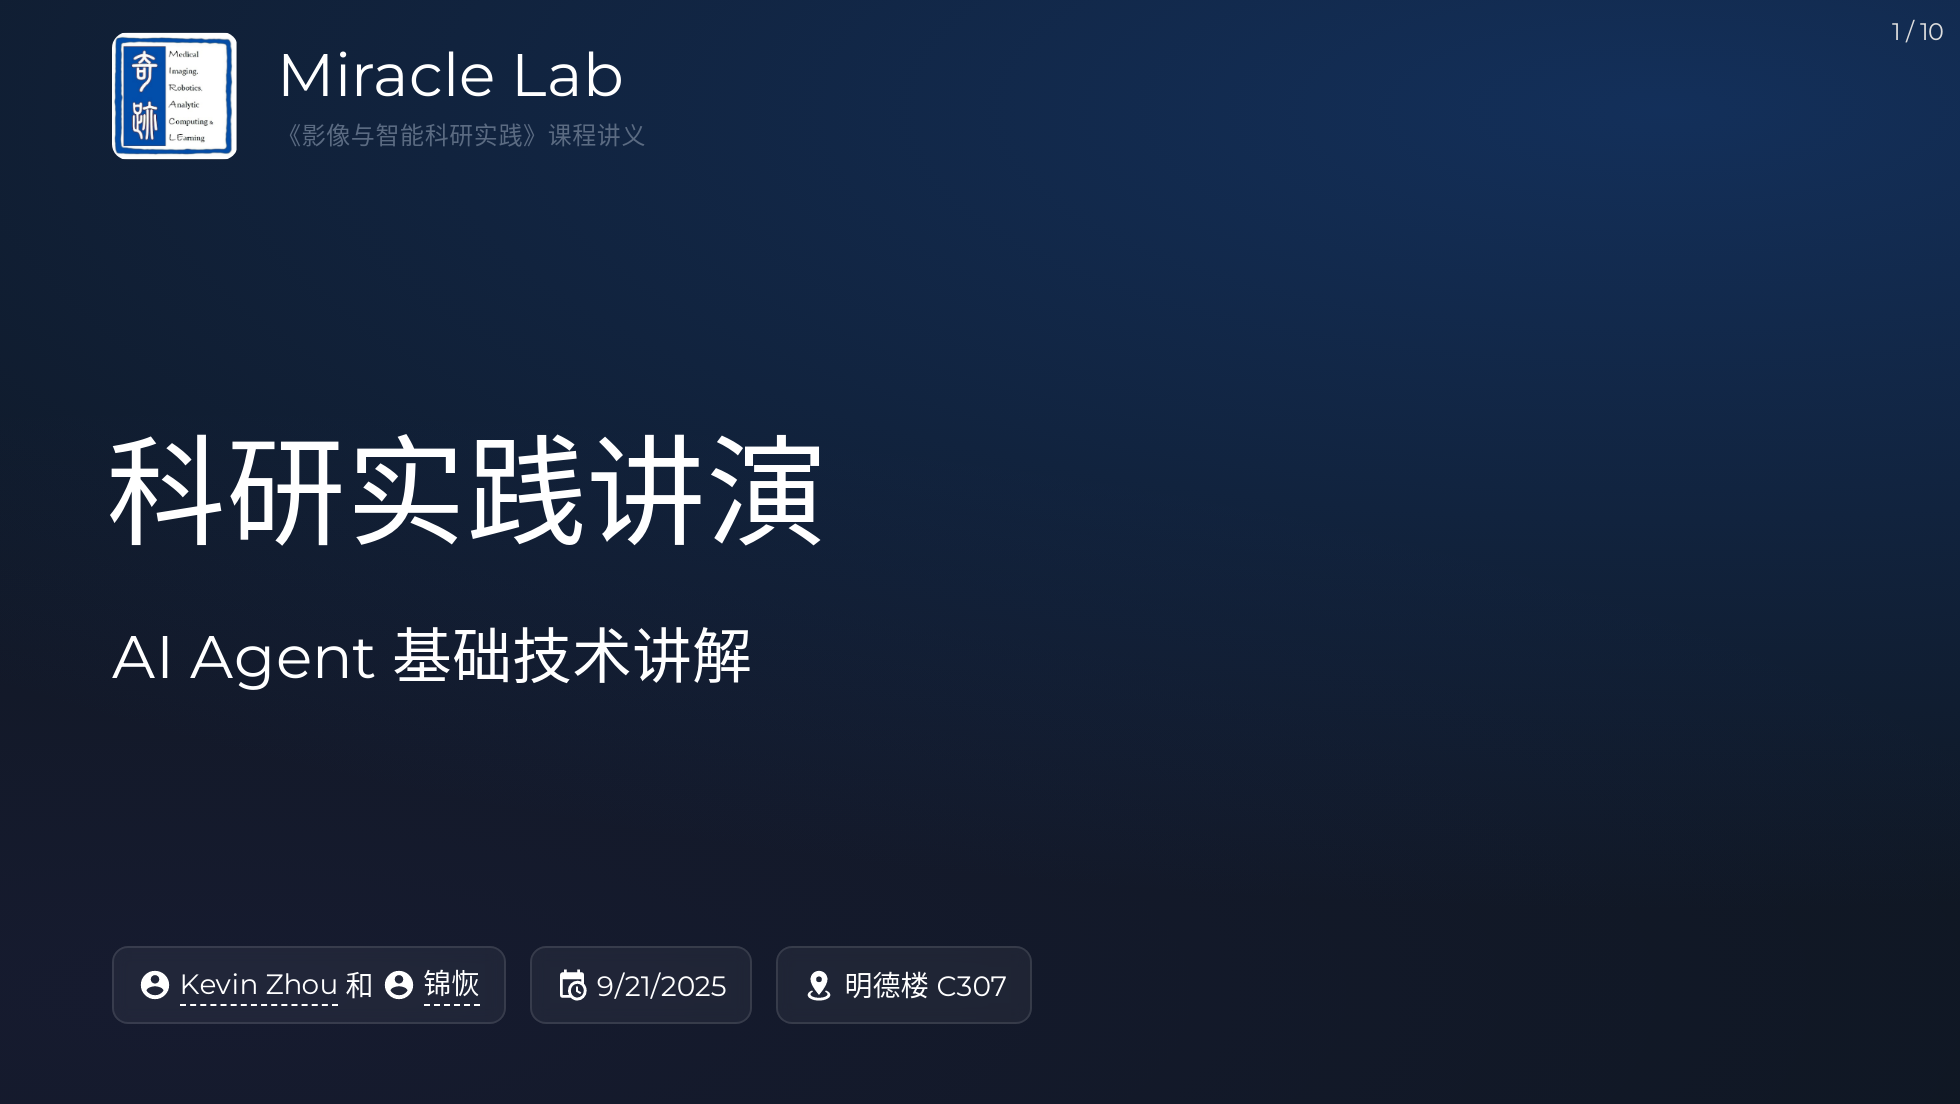
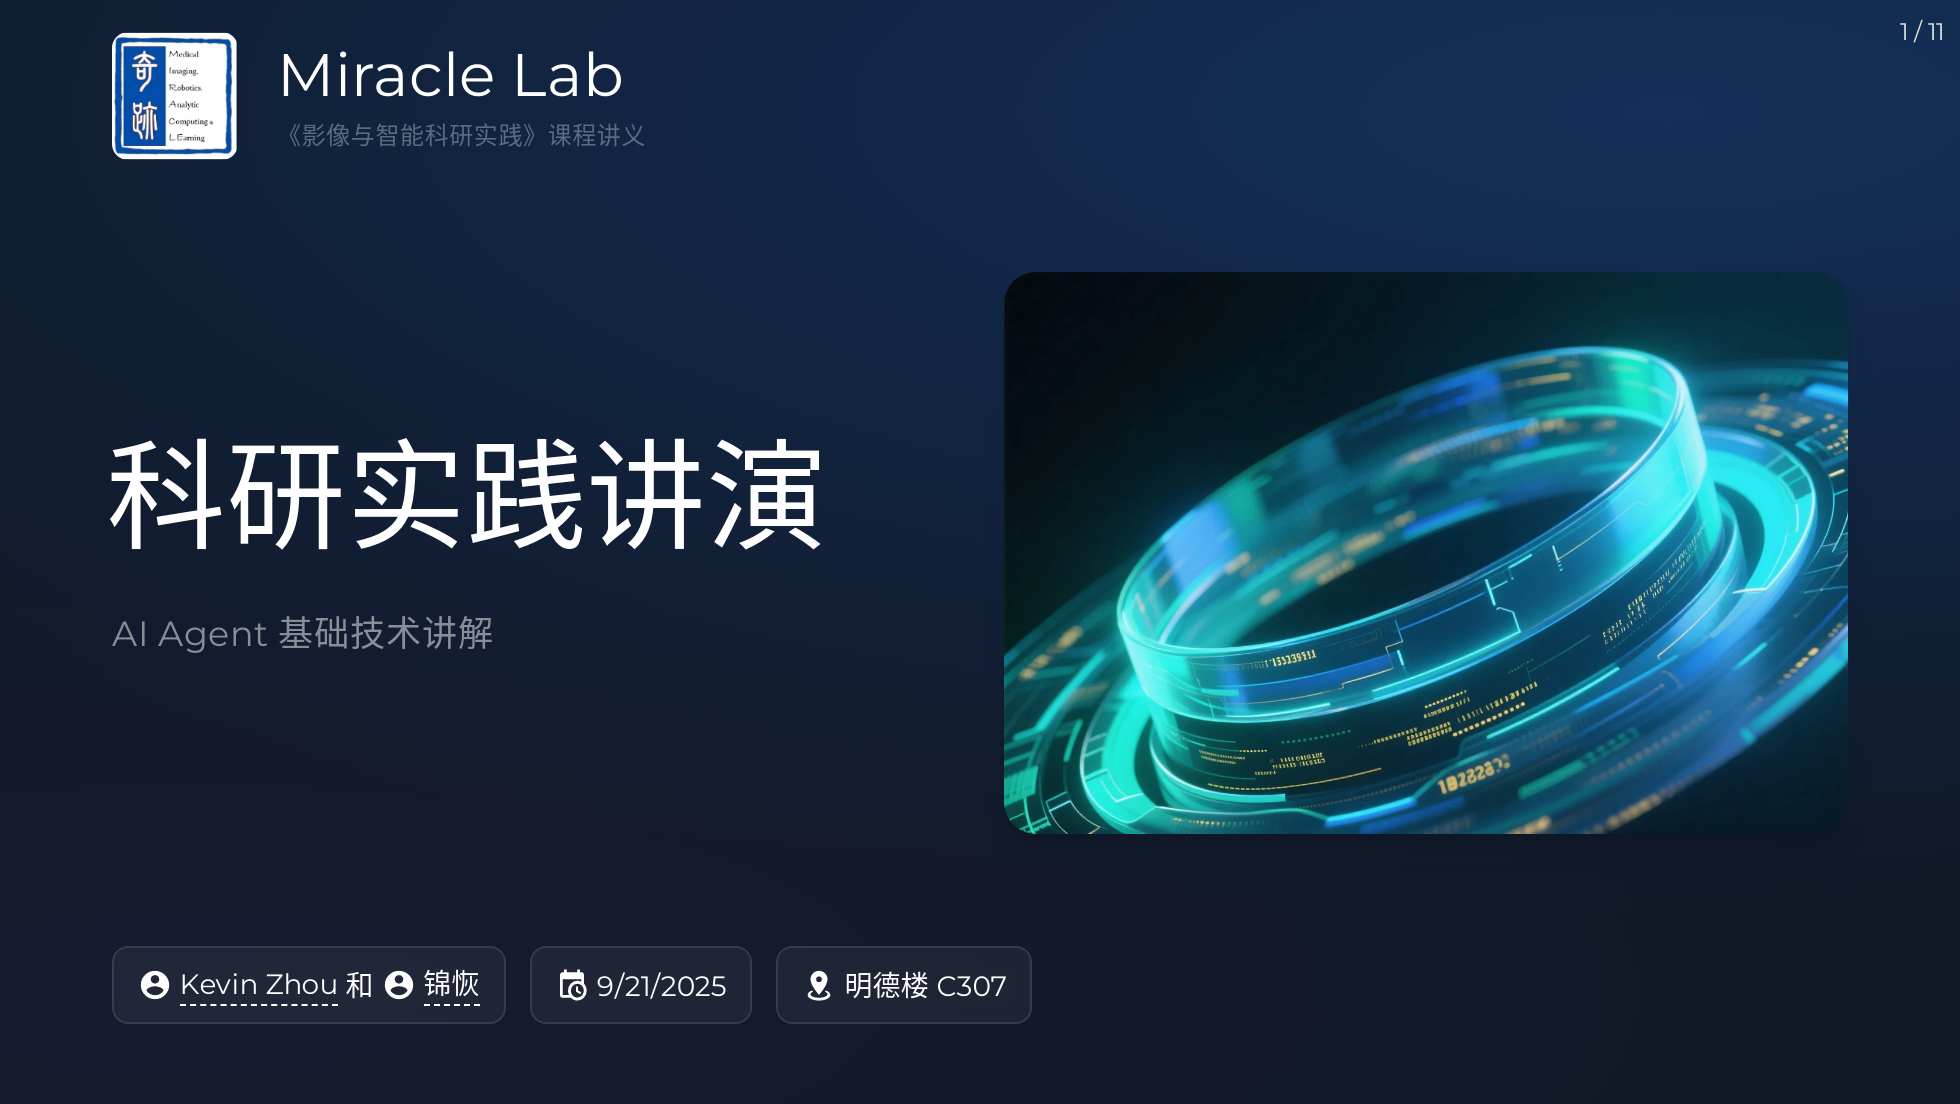
finish miracle 0.1.0

diff --git a/layouts/cover.vue b/layouts/cover.vue
@@ -12,10 +12,18 @@
 
 
         <!-- Title / Subtitle -->
-        <div class="flex-1 flex flex-col gap-2 justify-center">
-            <slot />
-        </div>
+        <div class="flex-1 flex flex-row items-center justify-between gap-6">
+            <!-- 左边：标题内容 -->
+            <div class="w-1/2 flex flex-col gap-2">
+                <slot />
+            </div>
 
+            <!-- 右边：封面图 -->
+            <div v-if="coverMedia" class="w-1/2 flex justify-center">
+                <img :src="coverMedia"
+                    alt="Cover image" class="max-h-80 rounded-2xl shadow-lg object-contain" />
+            </div>
+        </div>
 
         <!-- meta 信息 -->
         <div class="flex flex-wrap gap-3">
@@ -56,7 +64,8 @@ const {
     coverDate = new Date().toLocaleDateString(),
     logoUrl = 'https://picx.zhimg.com/80/v2-32c67121f7b3b7395aec3ad20fb97713_1440w.png',
     topic = 'paper reading',
-    coverOrganization = 'Miracle Lab'
+    coverOrganization = 'Miracle Lab',
+    coverMedia = ''
 } = defineProps<{
     coverAuthor?: string | string[]
     coverAuthorUrl?: string | string[]
@@ -64,6 +73,7 @@ const {
     coverDate?: string | Date
     logoUrl?: string
     topic?: string
+    coverMedia?: string
     coverOrganization?: string
     coverOccasion?: string
 }>()

diff --git a/CHANGELOG.md b/CHANGELOG.md
@@ -1,204 +1,5 @@
 # Changelog
 
-## [2.1.0](https://github.com/alexanderdavide/slidev-theme-academic/compare/2.0.1...2.1.0) (2024-12-26)
+## 0.1.0
 
-
-### Features
-
-* enable stacking footnotes vertically ([f629917](https://github.com/alexanderdavide/slidev-theme-academic/commit/f6299177bacd118b3820f31daa0a667783b3a66c))
-
-
-### Bug Fixes
-
-* harmonize left and right spacing of footnotes ([46f8ebb](https://github.com/alexanderdavide/slidev-theme-academic/commit/46f8ebb65397133e52b449db9410d33aaf39baa4))
-* prevent superscript from overlaying filled footnotes ([85531a7](https://github.com/alexanderdavide/slidev-theme-academic/commit/85531a795227a169c5f9d31dc500c2720eb95535))
-
-### [2.0.1](https://github.com/alexanderdavide/slidev-theme-academic/compare/2.0.0...2.0.1) (2024-09-09)
-
-
-### Bug Fixes
-
-* specify package engines correctly ([f5061d7](https://github.com/alexanderdavide/slidev-theme-academic/commit/f5061d7e3dc7fe4fd39b3f2c6bcc394c7e912ff9))
-
-## [2.0.0](https://github.com/alexanderdavide/slidev-theme-academic/compare/1.3.1...2.0.0) (2024-09-08)
-
-
-### ⚠ BREAKING CHANGES
-
-* migrate to UnoCSS and Shiki highlighter
-
-### Features
-
-* migrate to UnoCSS and Shiki highlighter ([3c52243](https://github.com/alexanderdavide/slidev-theme-academic/commit/3c522433ac9858167548360884182fc6e443dedd))
-
-### [1.3.1](https://github.com/alexanderdavide/slidev-theme-academic/compare/1.3.0...1.3.1) (2024-09-08)
-
-
-### Bug Fixes
-
-* load Shiki theme directly ([3e6b27a](https://github.com/alexanderdavide/slidev-theme-academic/commit/3e6b27ae354354b468e007bdb72b504604fc93e8))
-
-## [1.3.0](https://github.com/alexanderdavide/slidev-theme-academic/compare/1.2.0...1.3.0) (2024-03-23)
-
-
-### Features
-
-* remove backticks from code ([77e7c31](https://github.com/alexanderdavide/slidev-theme-academic/commit/77e7c3145377c82c50abe0b6f35d69f3b9fb90b9))
-
-## [1.2.0](https://github.com/alexanderdavide/slidev-theme-academic/compare/1.1.4...1.2.0) (2024-01-27)
-
-
-### Features
-
-* enable listing multiple authors on cover ([d21d0c9](https://github.com/alexanderdavide/slidev-theme-academic/commit/d21d0c97d17fb7d57ed18eedd1dedc7546dc23aa))
-* use and between last two authors rather than comma ([bbcfeb2](https://github.com/alexanderdavide/slidev-theme-academic/commit/bbcfeb20a51902da7d438d2378bdf330af98299b))
-
-### [1.1.4](https://github.com/alexanderdavide/slidev-theme-academic/compare/1.1.3...1.1.4) (2024-01-13)
-
-
-### Bug Fixes
-
-* make resolveAssetUrl safe for base URL with or without trailing slash ([a5c4f21](https://github.com/alexanderdavide/slidev-theme-academic/commit/a5c4f21617b88305c219d277bdd01ad2796164c1))
-
-### [1.1.3](https://github.com/alexanderdavide/slidev-theme-academic/compare/1.1.2...1.1.3) (2023-03-22)
-
-
-### Bug Fixes
-
-* use correct comment syntax ([ee3cb92](https://github.com/alexanderdavide/slidev-theme-academic/commit/ee3cb920cbf7d04b83766d0cb251351fe2efde8b))
-
-### [1.1.2](https://github.com/alexanderdavide/slidev-theme-academic/compare/1.1.1...1.1.2) (2023-03-12)
-
-
-### Bug Fixes
-
-* ensure alignment of author, date and content ([f03443e](https://github.com/alexanderdavide/slidev-theme-academic/commit/f03443e78e38fcc316b1f2975e6d24bf0c563dcd)), closes [#10](https://github.com/alexanderdavide/slidev-theme-academic/issues/10)
-
-### [1.1.1](https://github.com/alexanderdavide/slidev-theme-academic/compare/1.1.0...1.1.1) (2022-12-21)
-
-
-### Bug Fixes
-
-* **#7:** prevent overlap of global layers in export ([5aadf73](https://github.com/alexanderdavide/slidev-theme-academic/commit/5aadf7358099dfd0cc56b72afc836f008ab55181)), closes [#7](https://github.com/alexanderdavide/slidev-theme-academic/issues/7)
-* consider base path specified by user ([b57a01d](https://github.com/alexanderdavide/slidev-theme-academic/commit/b57a01dfc7363d99eeb41c556e97392b0c08b520))
-* prevent pagination from being displayed on slide end ([9a34e17](https://github.com/alexanderdavide/slidev-theme-academic/commit/9a34e1755fcc0cdc615d9650e3f7dd31abb0e52d))
-
-## [1.1.0](https://github.com/alexanderdavide/slidev-theme-academic/compare/1.0.0...1.1.0) (2022-05-21)
-
-
-### Features
-
-* enable filling of footnotes ([be3a4c7](https://github.com/alexanderdavide/slidev-theme-academic/commit/be3a4c7f81b37fb71674224f4b85b18c116c5a93))
-
-
-### Bug Fixes
-
-* add background color to Footnotes component ([d7ad960](https://github.com/alexanderdavide/slidev-theme-academic/commit/d7ad960770d8c0779dd1ca2edfba65c81eb8c312))
-
-## [1.0.0](https://github.com/alexanderdavide/slidev-theme-academic/compare/0.5.0...1.0.0) (2022-04-24)
-
-
-### ⚠ BREAKING CHANGES
-
-* put variables in context of the cover layout
-* put variables in context of the layout
-* make variables more concise
-* improve variable semantics
-
-### Features
-
-* default to fonts which support all font weigths on google fonts ([4d27e7a](https://github.com/alexanderdavide/slidev-theme-academic/commit/4d27e7a0eadd4a5e5308c62a045e27c752d5c545))
-* use normal font weigth for auther and date ([8ffc3c3](https://github.com/alexanderdavide/slidev-theme-academic/commit/8ffc3c3a344e43ae776d942aede259105f26dfd5))
-
-
-### Code Refactoring
-
-* improve variable semantics ([31ef068](https://github.com/alexanderdavide/slidev-theme-academic/commit/31ef068ab7bcd40bbc76a898d8b2a27f6c4473e2))
-* make variables more concise ([428658e](https://github.com/alexanderdavide/slidev-theme-academic/commit/428658e89772706f6ae46eb47e2158921e0de299))
-* put variables in context of the cover layout ([996152c](https://github.com/alexanderdavide/slidev-theme-academic/commit/996152c8be7640c21f64dcd807b56cec12fe1211))
-* put variables in context of the layout ([3f793c4](https://github.com/alexanderdavide/slidev-theme-academic/commit/3f793c4e18f07dd0cc4bc74c87bc1bc0db1c1186))
-
-## [0.5.0](https://github.com/alexanderdavide/slidev-theme-academic/compare/0.4.0...0.5.0) (2022-04-19)
-
-
-### Features
-
-* add index ([0ad399d](https://github.com/alexanderdavide/slidev-theme-academic/commit/0ad399dd22320700753428e43cc7ab8b26efd90e))
-* enable index to be used for references ([aa3c97c](https://github.com/alexanderdavide/slidev-theme-academic/commit/aa3c97c8fe66844178c7afd5705ffaade919bf6a))
-
-## [0.4.0](https://github.com/alexanderdavide/slidev-theme-academic/compare/0.3.0...0.4.0) (2022-04-13)
-
-
-### Features
-
-* show table of content with decimal list by updating slidev ([044c658](https://github.com/alexanderdavide/slidev-theme-academic/commit/044c65867da6a4a72153689d9e0f137323dd69f8))
-
-
-### Bug Fixes
-
-* account for optionality of paginationPagesDisabled ([aa27511](https://github.com/alexanderdavide/slidev-theme-academic/commit/aa275115c893bc3f6b30411b6a199ee9f08d5649))
-
-## [0.3.0](https://github.com/alexanderdavide/slidev-theme-academic/compare/0.2.1...0.3.0) (2022-04-10)
-
-
-### Features
-
-* allow disabling rendering of global pagination for specific slides ([8211c15](https://github.com/alexanderdavide/slidev-theme-academic/commit/8211c15a57b41588bcc3e3fe6ae3b6363a702e9b))
-* enable styling pagination by transferring class names ([50827da](https://github.com/alexanderdavide/slidev-theme-academic/commit/50827daabfa792967d94480eedb84f5132b2df67))
-
-### [0.2.1](https://github.com/alexanderdavide/slidev-theme-academic/compare/0.2.0...0.2.1) (2022-03-13)
-
-## [0.2.0](https://github.com/alexanderdavide/slidev-theme-academic/compare/0.1.2...0.2.0) (2022-03-06)
-
-
-### Features
-
-* add presentation info ([915934c](https://github.com/alexanderdavide/slidev-theme-academic/commit/915934ca5a20199c4101ba35ae1c86ac18c7238f))
-* configure title ([b7bd429](https://github.com/alexanderdavide/slidev-theme-academic/commit/b7bd4293336a35eb4c3dff5aab3f7e9ea1cd3a1a))
-
-
-### Bug Fixes
-
-* use correct user parameter ([5bde6b1](https://github.com/alexanderdavide/slidev-theme-academic/commit/5bde6b16a584e2ecfce6fe59cd6ea7aa1b9ec048))
-
-
-### Reverts
-
-* Revert "ci: temporarily remove deploy workflow branch filter for testing" ([66a74de](https://github.com/alexanderdavide/slidev-theme-academic/commit/66a74de0f3782b53253ad327e16c753ea3ead959))
-* Revert "ci: temporarily remove deploy workflow branch filter for testing" ([294f3ec](https://github.com/alexanderdavide/slidev-theme-academic/commit/294f3ec496b9c4948792462d60ddbc93ff0c093b))
-
-## [0.1.2](https://github.com/alexanderdavide/slidev-theme-academic/compare/0.1.1...0.1.2) (2022-03-01)
-
-
-### Bug Fixes
-
-* equally distribute space between content and figure ([0e2af8c](https://github.com/alexanderdavide/slidev-theme-academic/commit/0e2af8cdb295906b0ee005c13d9b176606a26c94))
-* set default of paginationY to top ([25d8071](https://github.com/alexanderdavide/slidev-theme-academic/commit/25d807107c89e00c1ba88ca79b98c1cf72d486c2))
-
-## [0.1.1](https://github.com/alexanderdavide/slidev-theme-academic/compare/0.1.0...0.1.1) (2022-02-28)
-
-## [0.1.0](https://github.com/alexanderdavide/slidev-theme-academic/compare/7f27086dbac7fde8edf582afda96755595b59664...0.1.0) (2022-02-27)
-
-
-### Bug Fixes
-
-* add correct footnote ([4c3a36c](https://github.com/alexanderdavide/slidev-theme-academic/commit/4c3a36cc77f66441cc2f8f34c68a3943bebe7dc4))
-* move footnotes to the right ([cac4af7](https://github.com/alexanderdavide/slidev-theme-academic/commit/cac4af7dc24e67147849fe41075fd44dd4639b2f))
-* rename file to PascalCase according to style guide ([1d2cd4e](https://github.com/alexanderdavide/slidev-theme-academic/commit/1d2cd4e613c6c476fe537017a8f722f2acbeaa0a))
-* undo formatting ([7f27086](https://github.com/alexanderdavide/slidev-theme-academic/commit/7f27086dbac7fde8edf582afda96755595b59664))
-* use flexbox to avoid overflow of long and narrow images ([d6a0e45](https://github.com/alexanderdavide/slidev-theme-academic/commit/d6a0e4552812e8d8e5ba50072cecda640ebfc094))
-
-
-### Features
-
-* add component FigureWithOptionalCaption ([8b41a1e](https://github.com/alexanderdavide/slidev-theme-academic/commit/8b41a1e6e1f1bb8f0dbadb7272b4e3da1d3436d6))
-* add component pagination ([1d1e374](https://github.com/alexanderdavide/slidev-theme-academic/commit/1d1e37424e6764ceebe5fa7a15fdeb70940c0e86))
-* add component TextWithOptionalLink ([d0ddd3f](https://github.com/alexanderdavide/slidev-theme-academic/commit/d0ddd3f195919a4a44fc79c6dd6022fd78304945))
-* add components Footnotes and Footnote ([cef139b](https://github.com/alexanderdavide/slidev-theme-academic/commit/cef139b35e71973acc003b2bc2bc213e3c9462ae))
-* add layout figure ([47822da](https://github.com/alexanderdavide/slidev-theme-academic/commit/47822dadc9b37dbfd9c0d64c44472922a632d0b2))
-* add layout image-text ([6a98eb1](https://github.com/alexanderdavide/slidev-theme-academic/commit/6a98eb13497f6dd2ad9b2aab471782f789abba6e))
-* add layout table-of-contents ([e428743](https://github.com/alexanderdavide/slidev-theme-academic/commit/e4287433a60743ce49e11a7bff3ff7eb60dcb741))
-* add/overwrite layout cover ([630edbd](https://github.com/alexanderdavide/slidev-theme-academic/commit/630edbd01434cb07bb04ac56adc83c2e3f9129d5))
-* define max height and center ([80dad54](https://github.com/alexanderdavide/slidev-theme-academic/commit/80dad543d86797f65fbbd1b0fa12ead00c29c727))
-* enable global pagination per configuration ([ea0890d](https://github.com/alexanderdavide/slidev-theme-academic/commit/ea0890dfb74f565a73cf31f644f6e19a463a2ee1))
-* enable pagination based on setting any configuration set ([c51de8a](https://github.com/alexanderdavide/slidev-theme-academic/commit/c51de8a0354b25215b89b1c11e9aaf5cfe47157f))
+- finish 0.1.0

diff --git a/README.md b/README.md
@@ -7,6 +7,7 @@
 
 A beautiful theme for lecture, work report and so on. Inspired by Slidev Theme [Academic](https://github.com/alexanderdavide/slidev-theme-academic).
 
+![](./example-export/8.png)
 
 
 ## Install
@@ -36,6 +37,7 @@ coverOrganization: Miracle Lab
 coverAuthor: [Kevin Zhou, 锦恢]
 coverAuthorUrl: [https://baike.baidu.com/item/%E5%91%A8%E5%B0%91%E5%8D%8E/61922413, https://kirigaya.cn/about]
 coverOccasion: 明德楼 C307
+coverMedia: https://picx.zhimg.com/80/v2-a9d1b704a4302f984012a03a67ffa61c_1440w.png
 ---
 
 # 科研实践讲演
@@ -163,6 +165,7 @@ print("A 的最大值 =", A.max())
 ```
 
 ![](./example-export/6.png)
+
 
 ## Contributing
 

diff --git a/example.md b/example.md
@@ -8,11 +8,12 @@ coverOrganization: Miracle Lab
 coverAuthor: [Kevin Zhou, 锦恢]
 coverAuthorUrl: [https://baike.baidu.com/item/%E5%91%A8%E5%B0%91%E5%8D%8E/61922413, https://kirigaya.cn/about]
 coverOccasion: 明德楼 C307
+coverMedia: https://picx.zhimg.com/80/v2-a9d1b704a4302f984012a03a67ffa61c_1440w.png
 ---
 
 # 科研实践讲演
 
-## AI Agent 基础技术讲解
+AI Agent 基础技术讲解
 
 
 ---
@@ -194,3 +195,12 @@ class: "text-center"
 
 <p class="absolute font-extralight right-14 transform rotate-8 top-4">Here!</p>
 
+---
+layout: end
+---
+
+# Thank you
+
+zhelonghuang@qq.com
+
+https://kirigaya.cn/about

diff --git a/README.zh.md b/README.zh.md
@@ -7,6 +7,8 @@
 
 一个适用于讲座、工作报告等场景的精美主题。灵感来自 Slidev 主题 [Academic](https://github.com/alexanderdavide/slidev-theme-academic)。
 
+![](./example-export/8.png)
+
 
 ## 安装
 
@@ -35,6 +37,7 @@ coverOrganization: Miracle Lab
 coverAuthor: [Kevin Zhou, 锦恢]
 coverAuthorUrl: [https://baike.baidu.com/item/%E5%91%A8%E5%B0%91%E5%8D%8E/61922413, https://kirigaya.cn/about]
 coverOccasion: 明德楼 C307
+coverMedia: https://picx.zhimg.com/80/v2-a9d1b704a4302f984012a03a67ffa61c_1440w.png
 ---
 
 # 科研实践讲演
